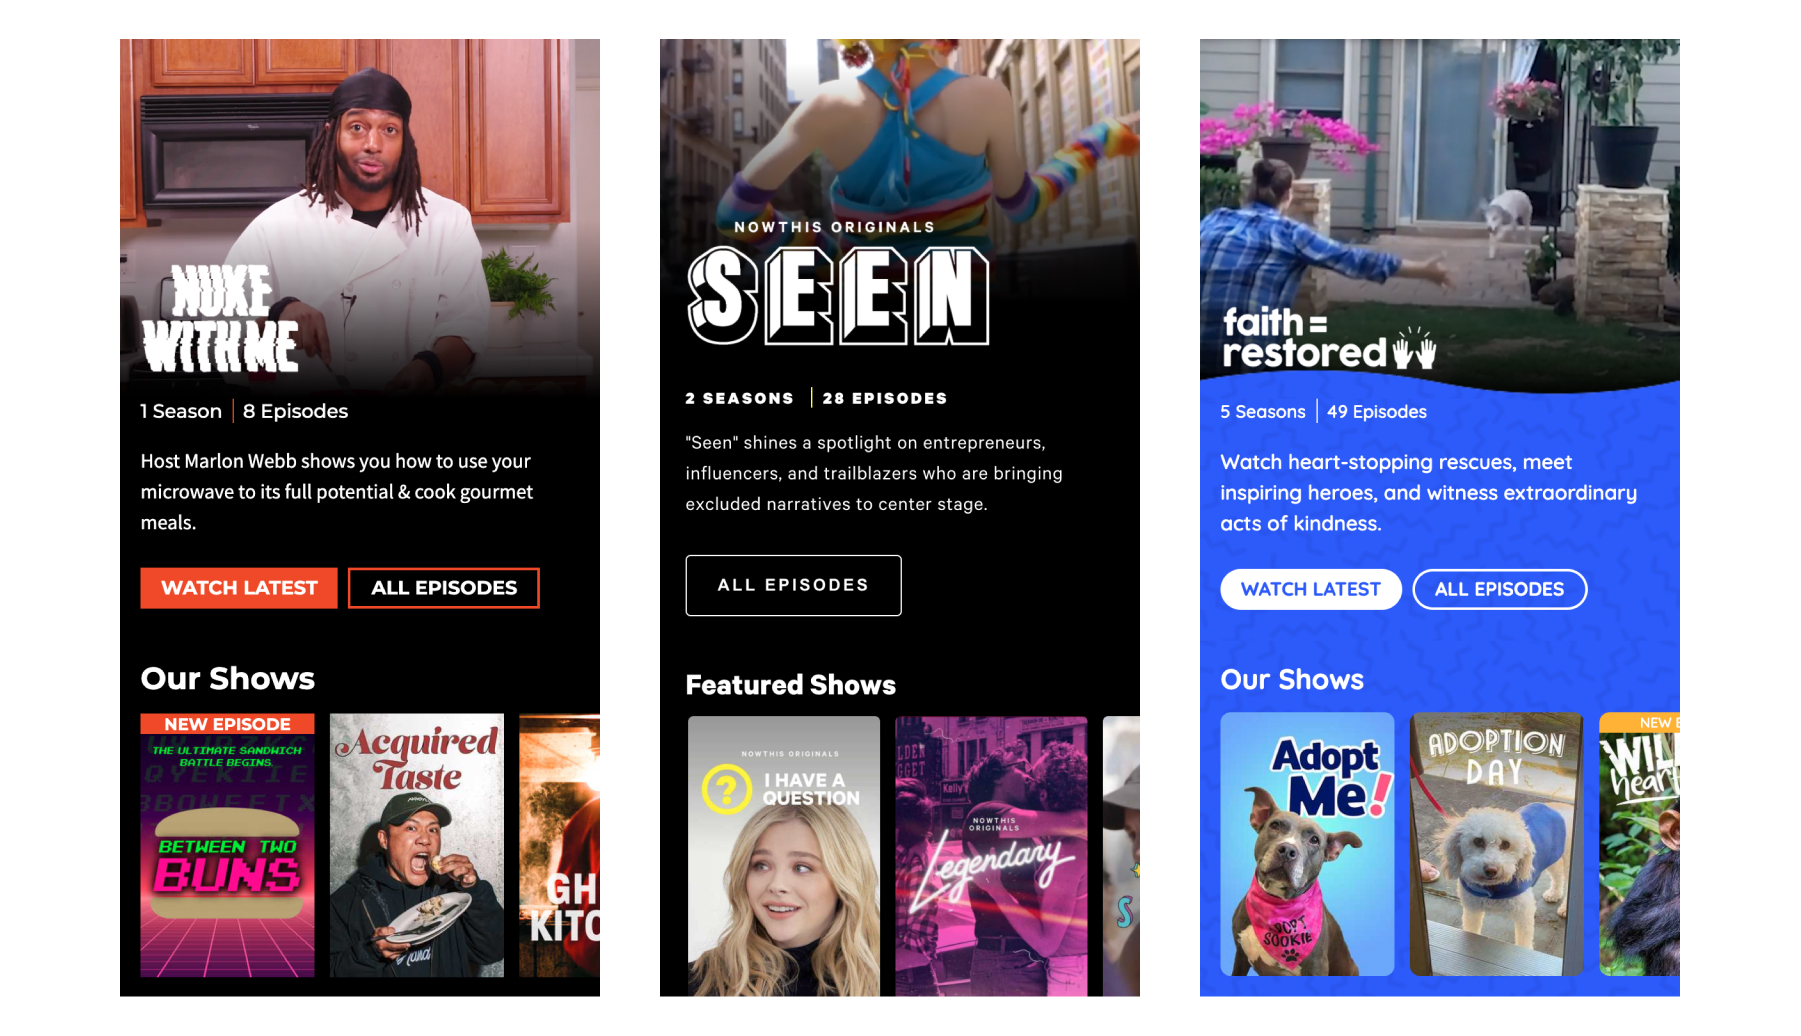
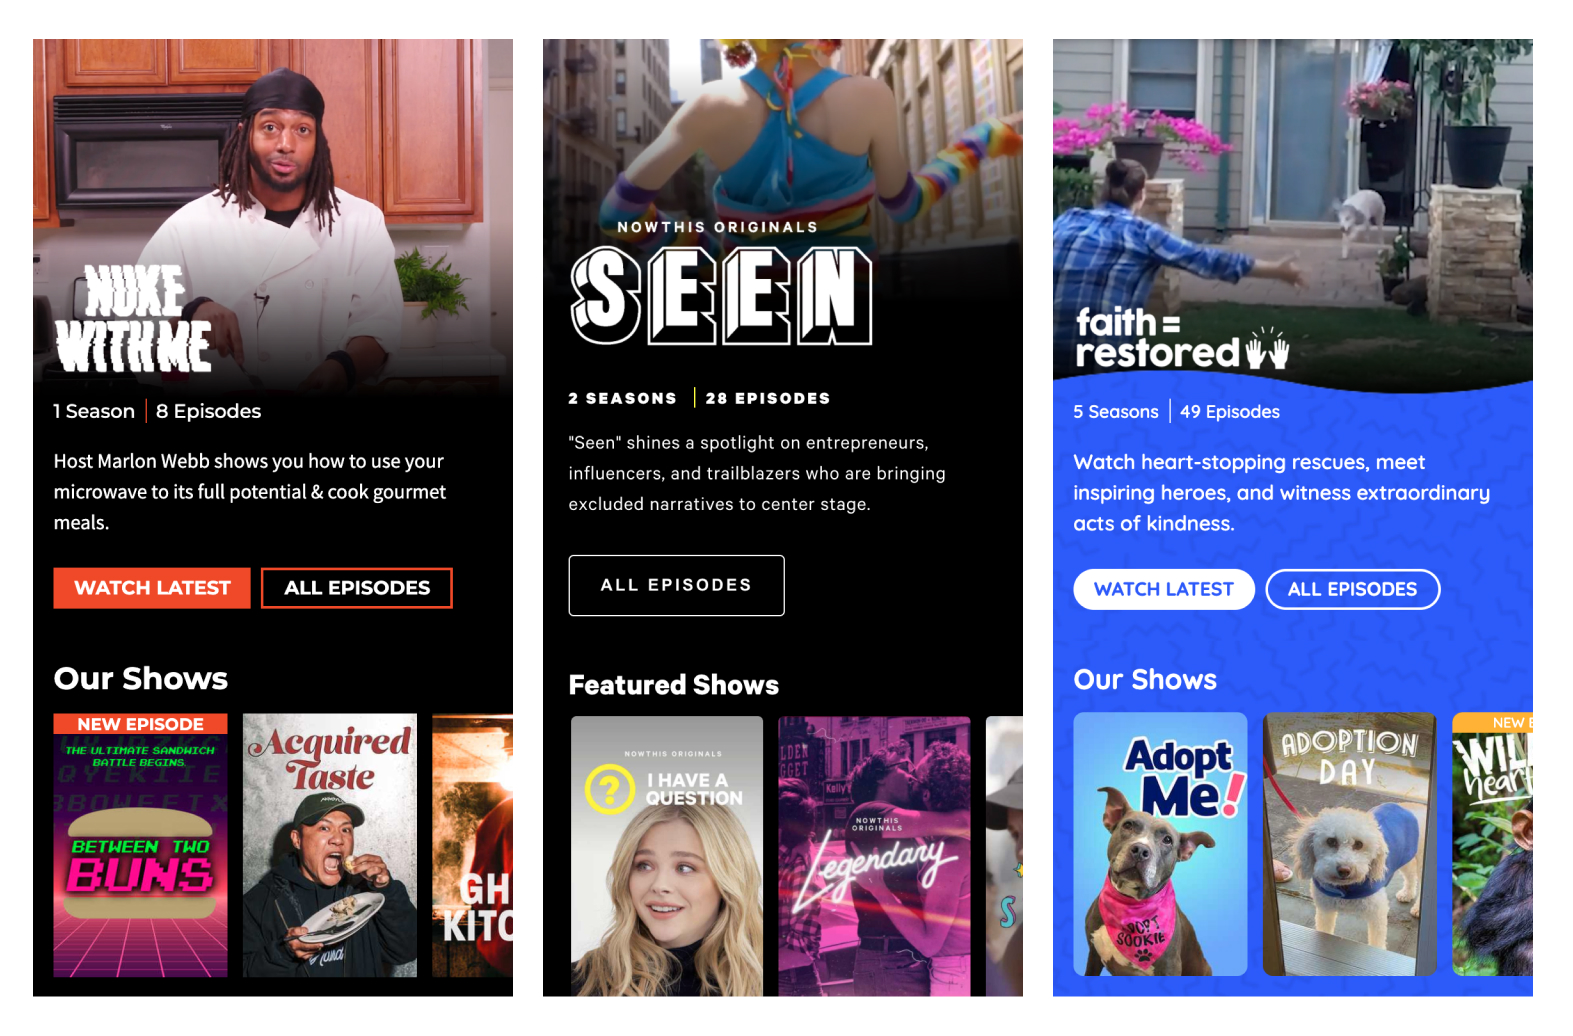
updated and reworked pinnacle

diff --git a/pages/projects/pinnacle.js b/pages/projects/pinnacle.js
@@ -40,68 +40,46 @@ export default function Main() {
       >
         <div className={styles.proCotents}>
 
-          <h3>— pinnacle <span>(2020)</span></h3>
-          <p className={styles.intro}>this brief is for pinnacle^3, from which the framework of all group nine media sites are built upon. this project is ongoing and we are currently in the process of updating and modernizing to our third version.</p>
+          <h3>— pinnacle design system<span>(2020)</span></h3>
+          <p className={styles.intro}>for the last year, I’ve been working on a project at group nine called pinnacle^3, this is one of the most ambitious initiatives group nine has ever undertaken for its home grown sites. this project touches everything from the back-end data structures to front-end implementation and design.</p>
 
           <div className={styles.contributions}>
             <p>
               <ul>
-                <li>design systems development</li>
-                <li>component design and feedback</li>
-                <li>overseeing design contributions</li>
-                <li>user research</li>
-                <li>team goals and strategy</li>
+                <li><strong>role:</strong> design system lead</li>
+                <li><strong>timeline:</strong> 12+ months</li>
+                <li><strong>goal(s):</strong> componentize designs for easy replication across brands, bring the best parts of our existing sites forward and with modernized tastes, improve load times, improve ability to spin up new group nine brands.</li>
               </ul>
             </p>
           </div>
 
-          <h5>overview</h5>
+          <h5>intro</h5>
 
-          <p>in the summer of 2019, group nine embarked on updating its owned and operated sites to bring it up to date with modern web standards. due to reworking the core of our sites, we wanted to reevaluate how we were approaching design at scale. with pinnacle^2, each brand was isolated and was unable to share components with the other brands.</p>
+          <p>pinnacle at its core is the goal to get every group nine site onto one shared platform, this is built upon a single scalable codebase that has a shared design system across every brand expression. this required a massive rework of our old platform pinnacle^2 and included a complete refactoring of both engineering tools and how we as designers approach problems. this project has been in progress over the last year and has touch multiple brands and is continually being iterated and improved upon as expectations grow.</p>
 
-          <p>with the next version of pinnacle, it was imperative that all components designed for one brand could easily be transferred to another brand. this reduces the level of effort required for long-term maintainability and new feature additions. currently, we are in the process of building up pinnacle^3 to address these issues.</p>
+          <p>you can see examples of this in action by visiting: <a target="_blank" href="//www.thrillist.com">thrillist</a>, <a target="_blank" href="//www.thedodo.com">the dodo</a>, <a target="_blank" href="//nowthisnews.com">now this</a>, and <a target="_blank" href="//www.seeker.com">seeker</a>. we are currently in the process of moving over another of our brands to this system and it will be added upon its launch.</p>
 
           <img
-            src="/assets/imgs/pinnacle-elements.jpg"
-            alt="an example of smaller elements in pinnacle"
+            src="/assets/imgs/pinnacle-articles-desktop.jpg"
+            alt="pinnacles articles themed per brand"
           />
-          <cite>a small collection of elements themed to be used on group nines brands</cite>
+          <cite>example of article components on large screens, themed for some of group nines brands</cite>
+
+          <img
+            src="/assets/imgs/pinnacle-articles-mobile.jpg"
+            alt="pinnacles articles themed per brand"
+          />
+          <cite>example of article components on small screens, themed for some of group nines brands</cite>
 
           <h5>high level goals</h5>
 
           <p>
             <ul>
-              <li>improve ability to share designs/features across all brands.</li>
-              <li>optimize pages to better utilize pinnacle^2’s more successful elements.</li>
-              <li>better unity between design and engineering’s needs for a more seamless handoff.</li>
+              <li>understanding the needs of our brands and what their baseline is and how this fits into pinnacle.</li>
+              <li>create a single set of themeable tools to help improve our ability to share designs/features across all brands, at scale.</li>
+              <li>improve workflows, and better unify the design, engineering, and pm handoff for new features and iterations.</li>
             </ul>
           </p>
-
-          <h5>jumping off point</h5>
-
-          <p>over the past few years, group nine has been using a system called pinnacle^2 to manage our site’s front end. as time has progressed, we were finding that its ability to match our needs was not being met. because of this, we decided to rework our platform with an updated version built to be more modular along with addressing load times to better meet our audience where they are.</p>
-
-          <img
-            src="/assets/imgs/pinnacle-cards.jpg"
-            alt="pinnacles content cards themed for each brand"
-          />
-          <cite>one of pinnacles components themed to demonstrate its flexibilty across brands</cite>
-
-          <h5>initial findings and resolutions</h5>
-
-          <p>we were finding our page loads were inhibiting our audience’s interactions with the content we were producing. as we were looking for solutions, engineers were flagging concerns that our tech stack was becoming hard to work with due to all of the legacy elements restricting our options.</p>
-
-          <p>due to poor page loading speeds and our engineers having to hack together solutions due to an outdated code base, we decided to rework of our front-end system from the ground up.</p>
-
-          <p>we have taken many steps to fix our initial findings and have resolved a majority of the issues found. however, we have not resolved everything; but as we keep making optimizations and updates within pinnacle^3 we will continue to build upon it to meet our needs.</p>
-
-          <p>as of today we have moved most of our sites to the new framework and are looking forward to moving the rest.</p>
-
-          <img
-            src="/assets/imgs/pinnacle-articles.jpg"
-            alt="pinnacles articles themed per brand"
-          />
-          <cite>example of article components themed for some of group nines brands</cite>
 
           <img
             src="/assets/imgs/pinnacle-video.jpg"
@@ -109,11 +87,69 @@ export default function Main() {
           />
           <cite>example of video node components themed for some of group nines brands</cite>
 
+          <h5>jumping off point</h5>
+
+          <p>pinnacle^3, is the in-house home grown solution to managing how sites express themselves across the brands owned and operated by group nine. originally, each brand had its own purpose built solution to managing the look and feel but shared nothing and had no interoperability across codebases.</p>
+
+          <p>as group nine has grown, introducing and acquiring more brands, a new instance of pinnacle was spun up to serve the needs of each new site. they shared the same underlying publishing platform but as sites began to diverge and grow we quickly found ourselves managing and executing repetitive tasks across multiple designs and codebases, and anytime we wanted to introduce a new feature it needed to be designed, built and tested multiple times. this was highly unsustainable.</p>
+
+          <p>e.g. features and stories across the brands shared a similar core but had diverged in their components and interactions, type system, ui elements such as inputs and fields and how the brand was being expressed.</p>
+
+          <img
+            src="/assets/imgs/pinnacle-cards.jpg"
+            alt="pinnacles content cards themed for each brand"
+          />
+          <cite>one of pinnacles most used components themed to demonstrate its flexibilty across brands</cite>
+
+          <h5>challenges</h5>
+
+          <p>with multiple sites and sub-brands to consider, we've faced some sticky points throughout this overhaul, some of which include:</p>
+
+          <p><strong>designing within a system and at scale.</strong> all our designs needed to have enough flexibility to work for all of our brands, yet still find room to have individual brand moments shine through to suit any of the editorial needs our stakeholders had. we essentially needed to create templates that we could easily maintain and scale that didn’t act like traditional templates. in order to meet these goals we did an audit of all existing components and cut any unnecessary pieces to help us better focus on delivering a rock solid core to scale up from, this meant sunsetting over 100 rarely used features, layouts, and components.</p>
+
+          <p><strong>finding a balance between editorial needs and audience expectations.</strong> pinnacle is unique to most projects as it has two very different sets of users, editorial users who produce content and have expectations on how that content is expressed and users who come to our sites to experience that content. both sets of users are usually in sync with one another, but while editors love impactful pages with lots of effects to show their work our readers often want quick page loads and minimal page movement. as a team of designers, we need to consider what is the best path to ensure that our products work for all involved.</p>
+
+          <p><strong>moving sites to a new platform while rebranding them.</strong> while designing and finding harmony between users we also needed to account for the brands getting refreshed as pinnacle^3 was in development. thrillist, the dodo, and seeker all received brand overhauls while we were in progress of migrating these brands to our new platform. this brought with it a few challenges i'd like to highlight — we were actively developing new features and components and needed to figure out how to work within a space where not all the brand elements were clearly defined. we often found ourselves needing to meet things that were out of our control such as launch windows, and expectations from other partners (such as sales and revenue). this often led us to needing to be thoughtful and hyper clear on feedback, timelines, success v failure, and a litany of smaller pieces that all go into a success product launch.</p>
+
+          <p>communication was one of the major keys to this being successful.</p>
+
+          <img
+            src="/assets/imgs/pinnacle-landing.jpg"
+            alt="an example of smaller elements in pinnacle"
+          />
+          <cite>the brands homepages, due to time saved by moving to a scalable system we were able to give each brand its own unique homepage more aligned with its brand expression.</cite>
+
+          <h5>what does success look like</h5>
+
+          <p>we’ve had many wins by moving to pinnacle, so lets look back at our high level goals and see how we did:</p>
+
+          <p>
+            <ul>
+              <li><strong>understanding the needs of our brands and what their baseline is and how this fits into pinnacle.</strong>
+                <ul>
+                  <li>after a little over a year, we’ve migrated our main brands to the pinnacle mainline and over that time we have developed a deep understanding of the building blocks that make up our sites. Some of these include articles, features, video nodes, and “the homepages” (one of the more crucial parts noted by our stakeholders, each brand received a distinct homepage experience to better help with their brand expression (see above)) and all the smaller things that make up a pinnacle site. along with this we’ve come to understand the best way to express our brands and their unique identifiers.</li>
+                </ul>
+              </li>
+              <li><strong>create a single set of themeable tools to help improve our ability to share designs/features across all brands, at scale.</strong>
+                <ul>
+                  <li>this is pretty easy as we either succeeded or we didn’t. We successfully moved all of our brands onto this new unified design system and codebase, so a success. we are still growing this system but as it stands today we’ve fully delivered on our goal to unify these brands to make scaling up a breeze.</li>
+                </ul>
+              </li>
+              <li><strong>improve workflows, and better unify the design, engineering, and pm handoff for new features and iterations.</strong>
+                <ul>
+                  <li>this was a big goal of ours in this move and i think it’s another success story. while moving our codebase we also changed design tools to use figma and its amazing collaboration and component capabilities. due to this move and the power of components, design was able to build out a comprehensive design system with theming and a good bit of flexibility to meet our needs while engineering made a code component library that hooks into figma to pull all needed values. this has severely reduced turn around times, eased handoff and helped with small visual qa mishaps. now that handoff and qa can look to a single source of truth for design there is less errors and overall better communication between different teams within product.</li>
+                </ul>
+              </li>
+            </ul>
+          </p>
+
           <h5>lessons learned</h5>
 
           <p>
             <ul>
-              <li>good work and a good foundation takes time.</li>
+              <li>good work and a good foundation takes time to develop.</li>
+              <li>communication is one of the most important tools we as designers have to help build consensus and build trust between our teammates and our users.</li>
+              <li>knowing when to advocate for evolution of something vs changing something that already works.</li>
             </ul>
           </p>
 
@@ -121,7 +157,7 @@ export default function Main() {
 
           <p>
             <ul>
-              <li>not very applicable as this project is still ongoing.</li>
+              <li>this project is still ongoing.</li>
             </ul>
           </p>
 

diff --git a/styles/main.module.scss b/styles/main.module.scss
@@ -149,10 +149,10 @@
   justify-content: space-between;
   opacity: 1;
 
-  @media (max-width: 1050px) {
-    width: calc(100vw - 80px);
-    left: 40px;
-    right: 40px;
+  @media (max-width: 1188px) {
+    width: calc(100vw - 40px);
+    left: 20px;
+    right: 20px;
   }
 
   @media (max-width: 600px) {
@@ -204,7 +204,7 @@
   h3 {
     text-transform: uppercase;
     font-size: 36px;
-    margin-top: 14vh;
+    margin-top: 17vh;
     margin-bottom: 20px;
     grid-column: 3 / span 12;
 
@@ -217,6 +217,7 @@
       font-size: 20px;
       line-height: 28px;
       font-weight: 300;
+      margin-left: 4px;
       display: inline-block;
       transform: translateY(-6px);
     }
@@ -237,7 +238,7 @@
   }
 
   .contributions {
-    grid-column: 4 / span 4;
+    grid-column: 4 / span 3;
     grid-row: span 5;
     font-family: signifier;
     font-size: 16px;
@@ -251,6 +252,11 @@
 
     p {
       color: #8B8B8B;
+    }
+
+    strong {
+      font-weight: 400;
+      color: #595959;
     }
   }
 
@@ -284,7 +290,7 @@
   p {
     text-indent: 30px;
     margin-top: 0px;
-    margin-bottom: 12px;
+    //margin-bottom: 12px;
     grid-column: 8 / span 5;
 
     @media (max-width: 728px) {
@@ -300,6 +306,10 @@
     text-indent: 0px;
   }
 
+  a {
+    color: #6385f2;
+  }
+
   ul {
     list-style: disc;
     padding-left: 0;
@@ -307,6 +317,25 @@
     @media (max-width: 728px) {
       padding-left: 16px;
     }
+
+    li {
+      margin-bottom: 8px;
+      text-indent: 0px;
+
+      ul {
+        padding-left: 20px;
+        list-style: circle;
+      }
+    }
+  }
+
+  p + p ul {
+    margin-top: 12px;
+  }
+
+  strong {
+    font-weight: 400;
+    color: #161616;
   }
 
   cite {
